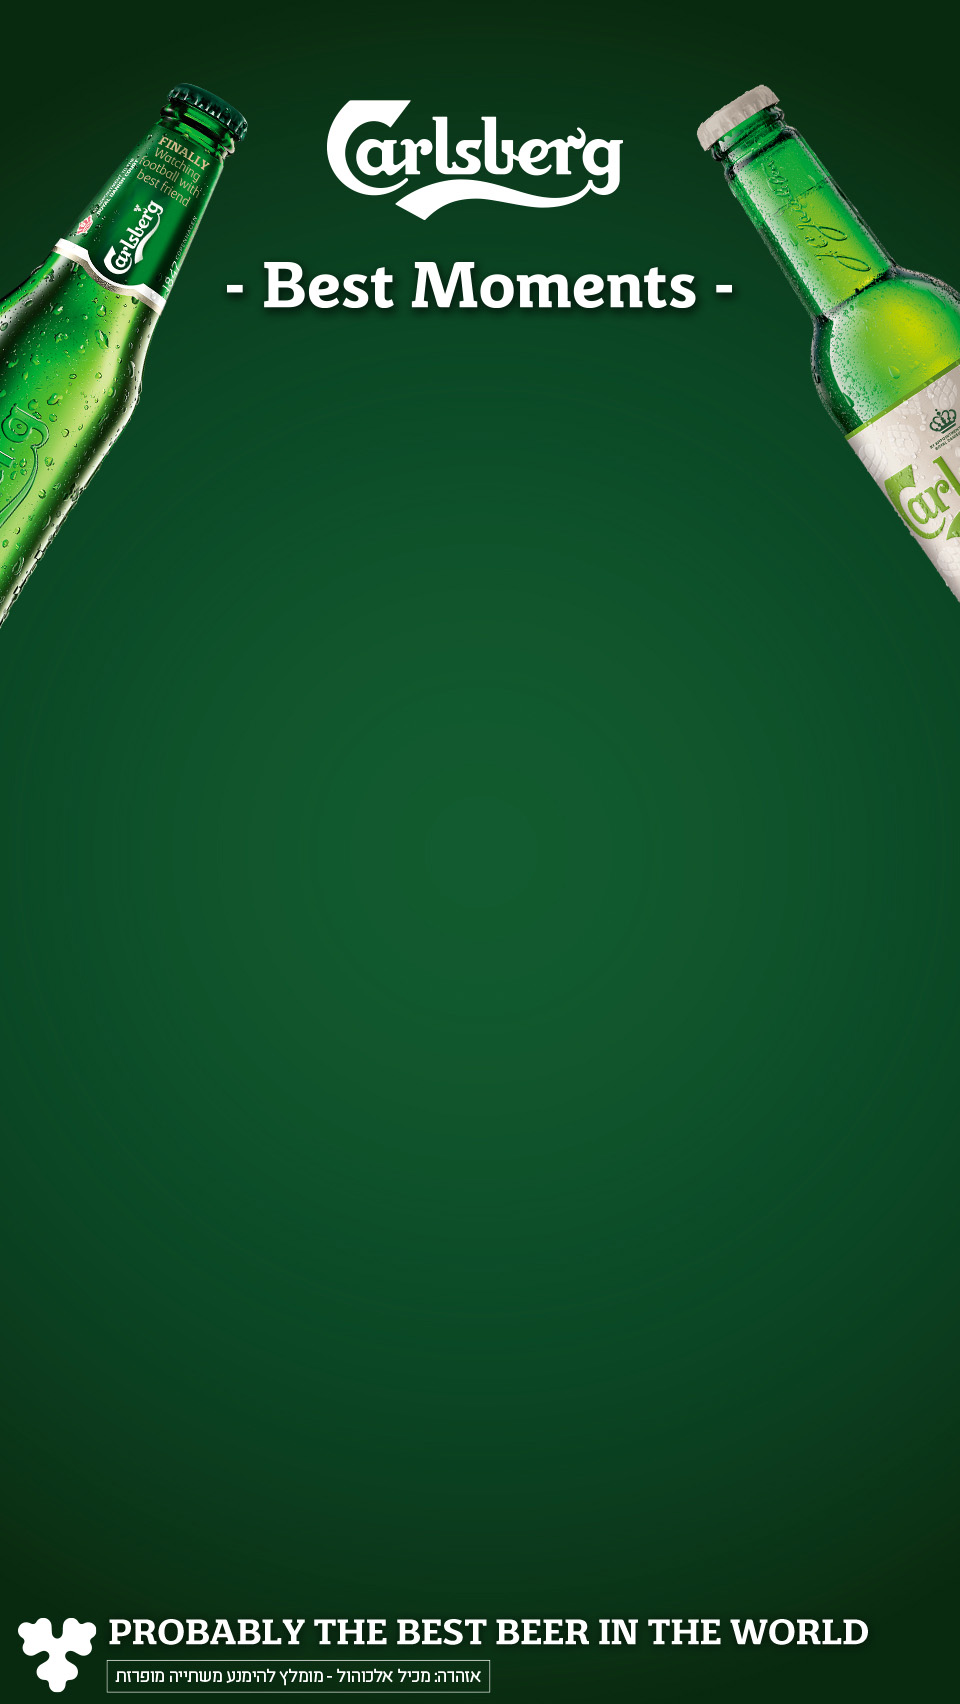
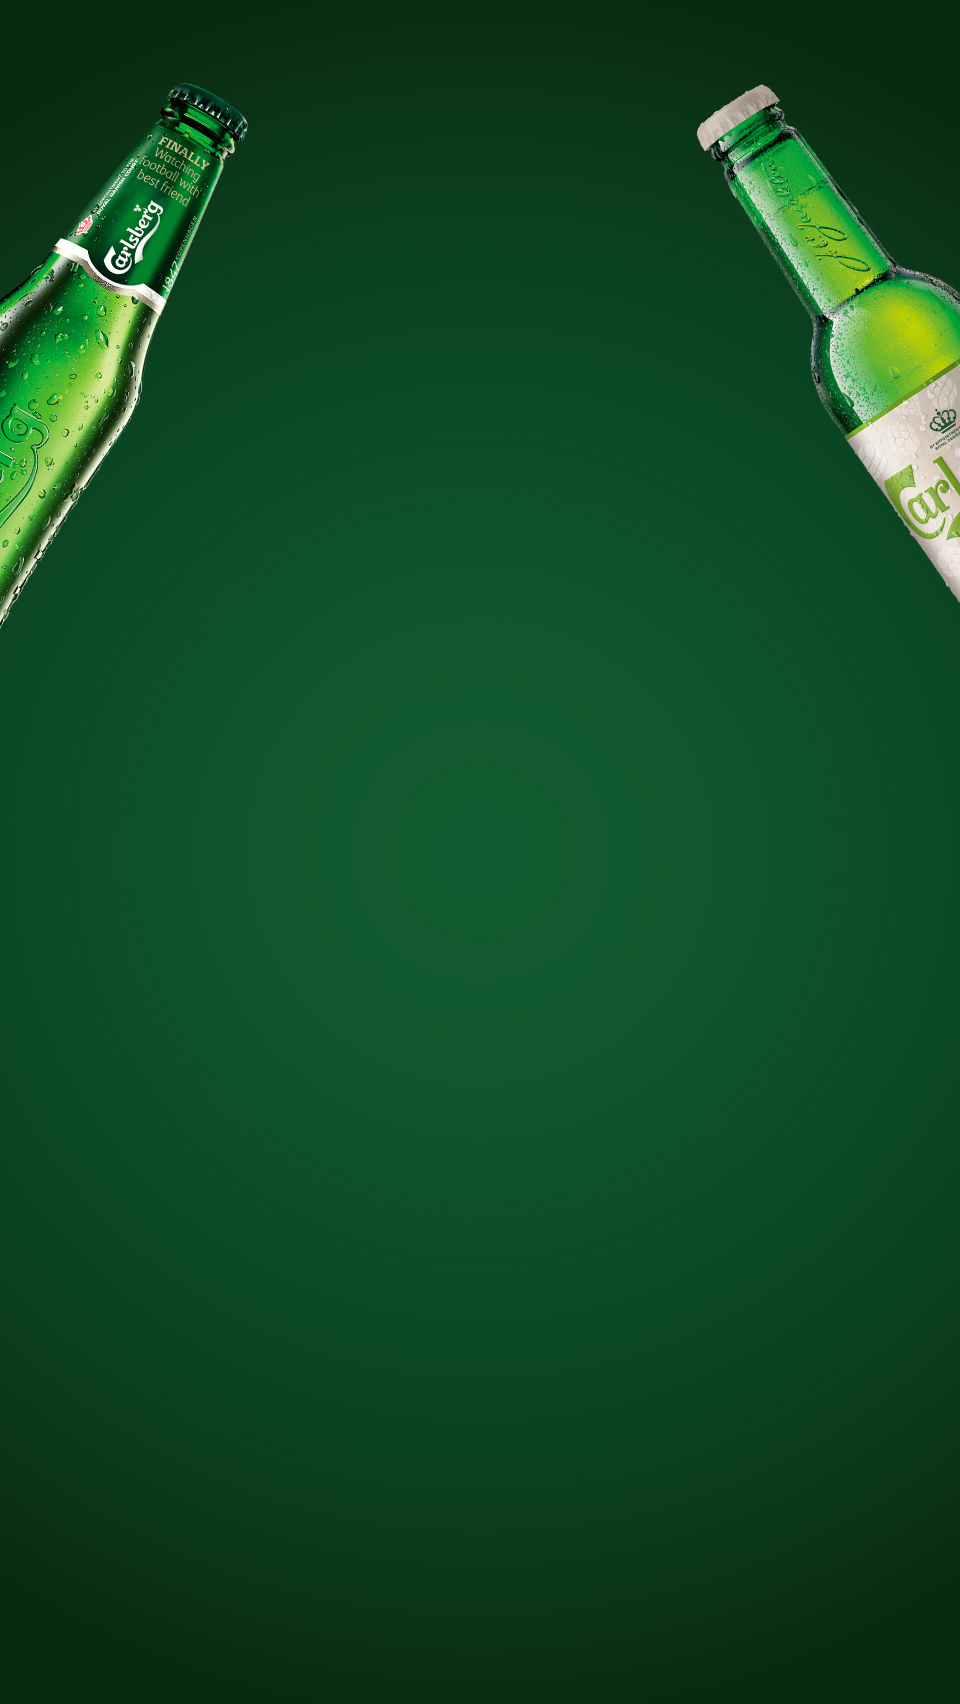
[IMP] - Bg Img elements made in a separate layer

Changed region(s): [[0.0, 0.9331, 0.9062, 0.9953], [0.3438, 0.0311, 0.6562, 0.1244], [0.25, 0.1555, 0.75, 0.1866]]

diff --git a/css/style.css b/css/style.css
@@ -250,9 +250,76 @@ button {
 
 /* #Bg Img
 ================================================== */
+.bg-img {
+  position: relative;
+}
+
 .bg-img,
-.bg-img img {
+.bg-img picture,
+.bg-img picture img {
   width: 100%;
+}
+
+.bg-img .logo {
+  width: 14.7vw;
+  position: absolute;
+  top: 3.75vw;
+  left: 50%;
+  transform: translateX(-50%);
+}
+
+.bg-img .best-moments {
+  width: 26.4vw;
+  position: absolute;
+  top: 11vw;
+  left: 50%;
+  transform: translateX(-50%);
+}
+
+.bg-img .best-beer {
+  width: 37vw;
+  position: absolute;
+  bottom: .5vw;
+  left: 38.5%;
+  transform: translateX(-50%);
+}
+
+.bg-img .footer-text {
+  width: 20vw;
+  position: absolute;
+  bottom: 1.1vw;
+  left: 68%;
+  transform: translateX(-50%);
+}
+
+.bg-img .logo img,
+.bg-img .best-moments img,
+.bg-img .best-beer img,
+.bg-img .footer-text img {
+  width: 100%;
+}
+
+@media (max-width: 1023.98px) {
+  .bg-img .logo {
+    width: 29.7vw;
+    top: 10.75vw;
+  }
+  
+  .bg-img .best-moments {
+    width: 55.4vw;
+    top: 26vw;
+  }
+  
+  .bg-img .best-beer {
+    width: 90vw;
+    bottom: 3.5vw;
+    left: 46.5%;
+  }
+  
+  .bg-img .footer-text {
+    width: 39vw;
+    left: 31%;
+  }
 }
 
 /* #Header

diff --git a/page-2.html b/page-2.html
@@ -97,6 +97,22 @@
       <source media="(min-width:1024px)" srcset="img/bg.jpg">
       <img src="img/bg-mobile.jpg" alt="carlsberg-bg-img">
     </picture>
+    <!-- Logo -->
+    <div class="logo">
+      <img src="img/logo.png" alt="carlsberg-logo">
+    </div>
+    <!-- Best Moments -->
+    <div class="best-moments">
+      <img src="img/best-moments.png" alt="carlsberg-best-moments">
+    </div>
+    <!-- Best Beer -->
+    <div class="best-beer">
+      <img src="img/best-beer.png" alt="carlsberg-best-beer">
+    </div>
+    <!-- Text-->
+    <div class="footer-text">
+      <img src="img/footer-text.png" alt="carlsberg-footer-text">
+    </div>
   </div>
 
   <!-- Script (Vendor) -->

diff --git a/index.html b/index.html
@@ -33,6 +33,22 @@
       <source media="(min-width:1024px)" srcset="img/bg.jpg">
       <img src="img/bg-mobile.jpg" alt="carlsberg-bg-img">
     </picture>
+    <!-- Logo -->
+    <div class="logo">
+      <img src="img/logo.png" alt="carlsberg-logo">
+    </div>
+    <!-- Best Moments -->
+    <div class="best-moments">
+      <img src="img/best-moments.png" alt="carlsberg-best-moments">
+    </div>
+    <!-- Best Beer -->
+    <div class="best-beer">
+      <img src="img/best-beer.png" alt="carlsberg-best-beer">
+    </div>
+    <!-- Text-->
+    <div class="footer-text">
+      <img src="img/footer-text.png" alt="carlsberg-footer-text">
+    </div>
   </div>
 
 </body>

diff --git a/page-3.html b/page-3.html
@@ -52,6 +52,22 @@
       <source media="(min-width:1024px)" srcset="img/bg.jpg">
       <img src="img/bg-mobile.jpg" alt="carlsberg-bg-img">
     </picture>
+    <!-- Logo -->
+    <div class="logo">
+      <img src="img/logo.png" alt="carlsberg-logo">
+    </div>
+    <!-- Best Moments -->
+    <div class="best-moments">
+      <img src="img/best-moments.png" alt="carlsberg-best-moments">
+    </div>
+    <!-- Best Beer -->
+    <div class="best-beer">
+      <img src="img/best-beer.png" alt="carlsberg-best-beer">
+    </div>
+    <!-- Text-->
+    <div class="footer-text">
+      <img src="img/footer-text.png" alt="carlsberg-footer-text">
+    </div>
   </div>
 
 </body>

diff --git a/page-4.html b/page-4.html
@@ -61,6 +61,22 @@
       <source media="(min-width:1024px)" srcset="img/bg.jpg">
       <img src="img/bg-mobile.jpg" alt="carlsberg-bg-img">
     </picture>
+    <!-- Logo -->
+    <div class="logo">
+      <img src="img/logo.png" alt="carlsberg-logo">
+    </div>
+    <!-- Best Moments -->
+    <div class="best-moments">
+      <img src="img/best-moments.png" alt="carlsberg-best-moments">
+    </div>
+    <!-- Best Beer -->
+    <div class="best-beer">
+      <img src="img/best-beer.png" alt="carlsberg-best-beer">
+    </div>
+    <!-- Text-->
+    <div class="footer-text">
+      <img src="img/footer-text.png" alt="carlsberg-footer-text">
+    </div>
   </div>
 
 </body>

diff --git a/page-5.html b/page-5.html
@@ -59,6 +59,22 @@
       <source media="(min-width:1024px)" srcset="img/bg.jpg">
       <img src="img/bg-mobile.jpg" alt="carlsberg-bg-img">
     </picture>
+    <!-- Logo -->
+    <div class="logo">
+      <img src="img/logo.png" alt="carlsberg-logo">
+    </div>
+    <!-- Best Moments -->
+    <div class="best-moments">
+      <img src="img/best-moments.png" alt="carlsberg-best-moments">
+    </div>
+    <!-- Best Beer -->
+    <div class="best-beer">
+      <img src="img/best-beer.png" alt="carlsberg-best-beer">
+    </div>
+    <!-- Text-->
+    <div class="footer-text">
+      <img src="img/footer-text.png" alt="carlsberg-footer-text">
+    </div>
   </div>
 
 </body>

diff --git a/page-6.html b/page-6.html
@@ -59,6 +59,22 @@
       <source media="(min-width:1024px)" srcset="img/bg.jpg">
       <img src="img/bg-mobile.jpg" alt="carlsberg-bg-img">
     </picture>
+    <!-- Logo -->
+    <div class="logo">
+      <img src="img/logo.png" alt="carlsberg-logo">
+    </div>
+    <!-- Best Moments -->
+    <div class="best-moments">
+      <img src="img/best-moments.png" alt="carlsberg-best-moments">
+    </div>
+    <!-- Best Beer -->
+    <div class="best-beer">
+      <img src="img/best-beer.png" alt="carlsberg-best-beer">
+    </div>
+    <!-- Text-->
+    <div class="footer-text">
+      <img src="img/footer-text.png" alt="carlsberg-footer-text">
+    </div>
   </div>
 
 </body>
